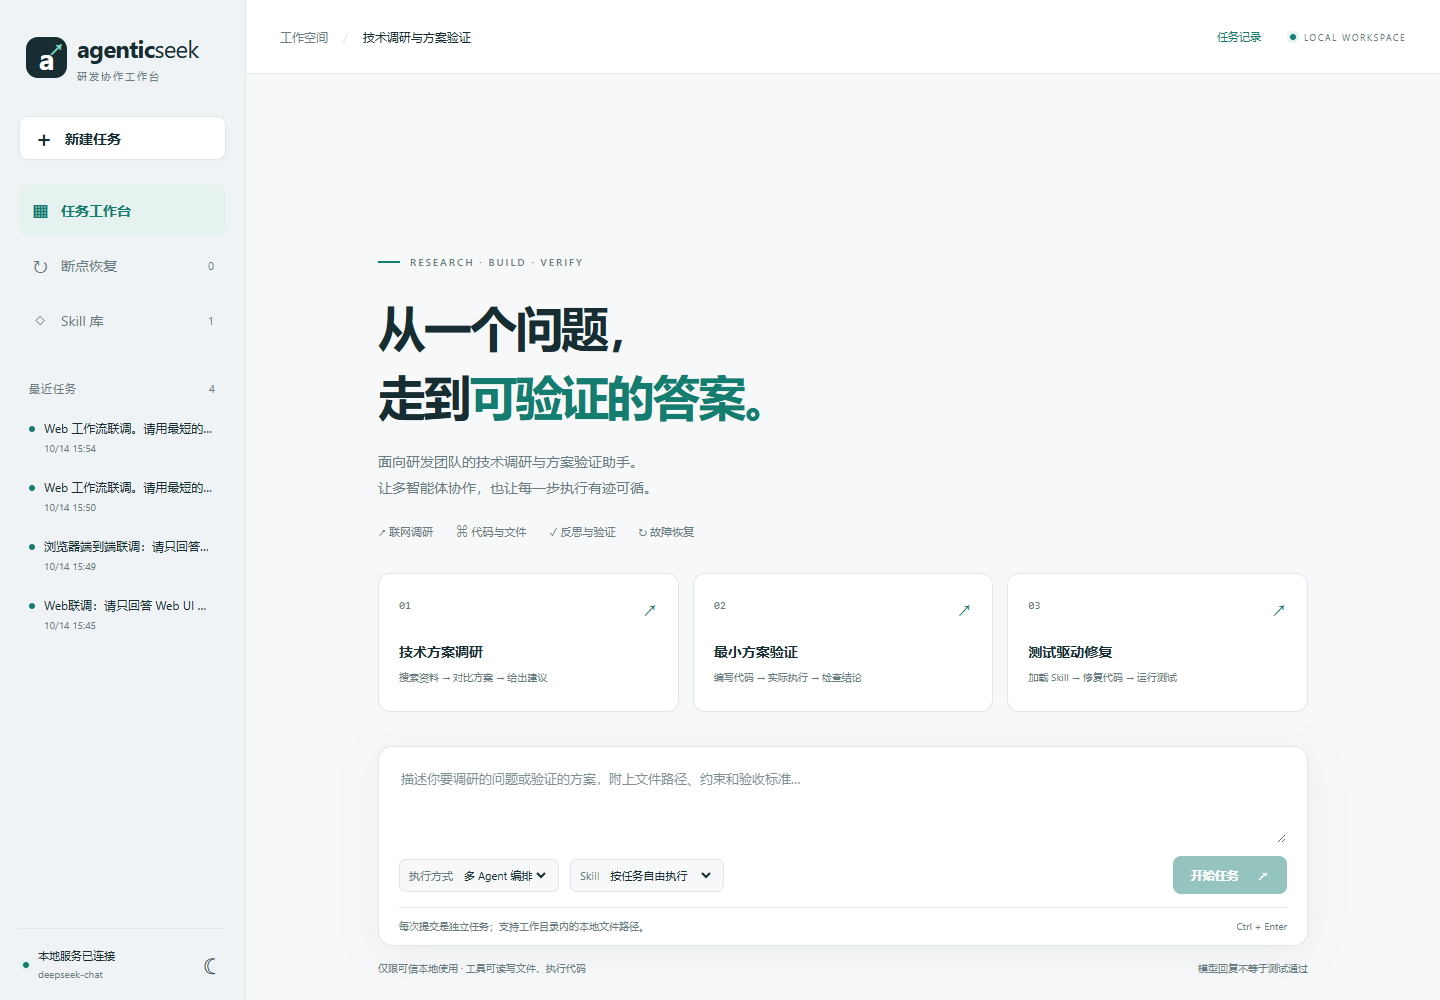
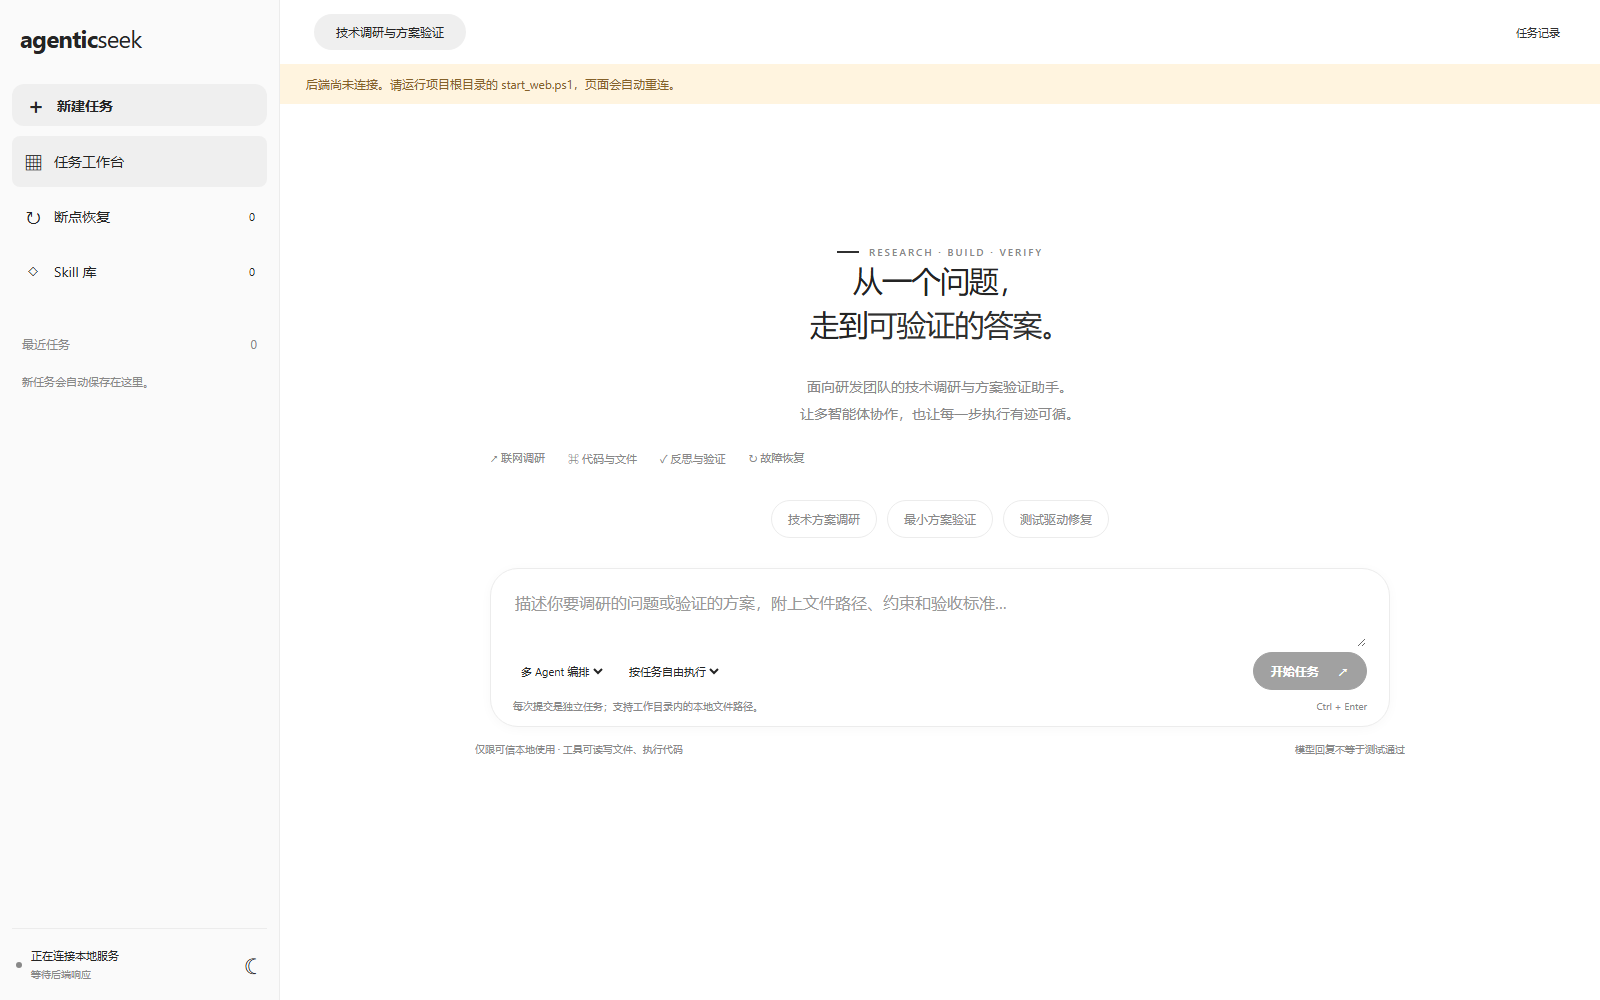
Restyle workspace with a minimal conversation interface

diff --git a/frontend/agentic-seek-front/src/App.css b/frontend/agentic-seek-front/src/App.css
@@ -139,3 +139,9 @@ summary { cursor: pointer; color: var(--subtle); font-size: 11px; line-height: 1
 @media (max-width: 760px) { .app-shell { flex-direction: column; }.sidebar { width: 100%; flex: 0 0 auto; padding: 12px 16px; flex-direction: row; align-items: center; gap: 13px; border-right: 0; border-bottom: 1px solid var(--line); }.brand { margin: 0; font-size: 19px; }.brand-icon { width: 32px; height: 32px; font-size: 23px; }.brand small, .new-task kbd, .history-list, .history-label, .sidebar-footer, .nav-item > span, .nav-item small { display: none; }.new-task { width: auto; margin: 0 0 0 auto; padding: 7px 10px; font-size: 11px; }.new-task > span { font-size: 17px; }.sidebar nav { display: flex; gap: 4px; }.nav-item { padding: 8px; font-size: 10px; margin: 0; white-space: nowrap; }.main-shell { min-height: 0; }.topbar { min-height: 53px; padding: 0 20px; font-size: 10px; }.local-badge { font-size: 8px; letter-spacing: .5px; }.workspace-main { padding: 0 20px; }.welcome { padding-top: 37px; }.welcome h1 { font-size: 35px; }.hero-description { font-size: 12px; }.capability-strip { gap: 14px; font-size: 10px; }.example-card { padding: 14px; }.example-card h2 { font-size: 12px; }.example-card p { font-size: 9px; }.composer { padding: 15px; }.composer-controls, .with-task .composer-controls { flex-wrap: wrap; }.composer-controls > button { margin-left: auto; }.composer-selects { gap: 6px; }.composer-selects label { font-size: 10px; padding: 6px; }.composer-selects select { max-width: 145px; }.composer-note > span:last-child { display: none; }.workspace-footer { font-size: 9px; }.library-page { padding: 30px 20px; }.banner { padding: 9px 20px; font-size: 10px; gap: 10px; } }
 @media (max-width: 480px) { .sidebar { flex-wrap: wrap; gap: 8px; }.sidebar nav { width: 100%; }.nav-item { flex: 1; justify-content: center; }.topbar .local-badge { display: none; }.welcome h1 { font-size: 31px; }.examples { grid-template-columns: 1fr; gap: 8px; }.example-card { min-height: 0; position: relative; padding: 14px 14px 14px 45px; }.example-number { position: absolute; left: 14px; top: 17px; }.example-number > span { display: none; }.example-card h2 { margin-bottom: 5px; }.composer-selects label { flex: 1; }.composer-selects { width: 100%; }.running-card { flex-wrap: wrap; }.running-card button { margin-left: 30px; }.workspace-footer { flex-direction: column; gap: 6px; } }
 @media (prefers-reduced-motion: reduce) { * { animation-duration: .01ms !important; transition: none !important; } }
+
+/* Reference-inspired conversation workspace */
+:root,[data-theme="light"]{--page:#fff;--surface:#fff;--sidebar:#fafafa;--ink:#242424;--subtle:#888;--line:#ececec;--accent:#303030;--accent-soft:#efefef;--shadow:0 2px 12px #00000008}
+.sidebar{width:280px;flex-basis:280px;padding:22px 12px 0}.brand{margin:0 8px 30px;font-size:24px}.brand-icon,.brand small{display:none}.new-task{border:0;box-shadow:none;background:var(--accent-soft);border-radius:12px;margin-bottom:10px}.nav-item{color:var(--ink)}.nav-item.selected{color:var(--ink);font-weight:500}.history-label{font-size:12px;letter-spacing:0;margin-top:36px}.history-text{font-size:14px}.topbar{border:0;min-height:64px}.local-badge{display:none}.topbar b{background:var(--accent-soft);padding:10px 22px;border-radius:25px}.topbar .breadcrumb,.topbar .muted{display:none}.workspace-main{padding:0 36px}.welcome{max-width:900px;margin:auto auto 0;text-align:center;padding:30px 0}.welcome h1{font-size:30px;font-weight:500;letter-spacing:-1px;margin:0 0 28px}.examples{display:flex;justify-content:center;flex-wrap:wrap;gap:10px}.example-card{min-height:0;padding:10px 16px;border-radius:24px;text-align:center;background:transparent}.example-number,.example-card p{display:none}.example-card h2{font-size:12px;font-weight:400;margin:0;color:var(--subtle)}.composer{max-width:900px;border-radius:28px;padding:18px 22px 12px}.composer textarea{min-height:42px;font-size:16px}.composer-controls{margin-top:0}.composer-selects label{border:0;background:transparent;padding:4px}.composer-selects label>span{display:none}.composer .primary-button{border-radius:25px}.composer-note{border:0;margin-top:8px;padding-top:0}.workspace-layout:not(.with-task) .workspace-footer{margin-bottom:auto;padding-bottom:14vh}.user-query{border:0;background:var(--accent-soft);border-radius:24px}
+@media(max-width:760px){.sidebar{width:190px;flex-basis:190px}.workspace-main{padding:0 16px}.composer-selects select{max-width:120px}.welcome h1{font-size:26px}}
+@media(max-width:540px){.sidebar{width:64px;flex-basis:64px;padding:20px 6px}.brand{font-size:0;margin:0 0 22px}.brand:after{content:'a↗';font-size:22px}.new-task{font-size:0;justify-content:center}.new-task>span{font-size:24px}.sidebar nav,.history-label,.history-list,.sidebar-footer>span{display:none}.sidebar-footer{margin-top:auto}.composer{padding:14px}.composer-selects{flex-direction:column;gap:2px}.composer-note>span:first-child,.workspace-footer{display:none}.example-card{padding:8px}.workspace-main{padding:0 12px}}

diff --git a/frontend/agentic-seek-front/src/App.js b/frontend/agentic-seek-front/src/App.js
@@ -160,10 +160,7 @@ export default function App() {
       {view === 'workspace' && <div className={'workspace-layout ' + (task ? 'with-task' : '')}>
         <main className="workspace-main">
           {!selectedId ? <section className="welcome">
-            <div className="eyebrow"><span className="tiny-line" /> RESEARCH · BUILD · VERIFY</div>
-            <h1>从一个问题，<br />走到<span>可验证的答案。</span></h1>
-            <p className="hero-description">面向研发团队的技术调研与方案验证助手。<br />让多智能体协作，也让每一步执行有迹可循。</p>
-            <div className="capability-strip"><span>↗ 联网调研</span><span>⌘ 代码与文件</span><span>✓ 反思与验证</span><span>↻ 故障恢复</span></div>
+            <h1>随时可以开始。</h1>
             <div className="examples">{examples.map(ex => <button className="example-card" key={ex.number} onClick={() => selectExample(ex)}><span className="example-number">{ex.number}<span>↗</span></span><h2>{ex.title}</h2><p>{ex.desc}</p></button>)}</div>
           </section> : task ? <section className="task-content">
             <div className="task-title"><div><span className="eyebrow">TASK / {task.id.slice(0, 8)}</span><h1>任务详情</h1></div><Status state={task.status} /></div>
@@ -177,7 +174,7 @@ export default function App() {
 
           <form className="composer" onSubmit={submit}>
             <label className="sr-only" htmlFor="task-input">任务内容</label>
-            <textarea id="task-input" ref={inputRef} value={query} maxLength={32000} onChange={e => setQuery(e.target.value)} placeholder="描述你要调研的问题或验证的方案，附上文件路径、约束和验收标准…" onKeyDown={e => { if ((e.ctrlKey || e.metaKey) && e.key === 'Enter') submit(e); }} />
+            <textarea id="task-input" ref={inputRef} value={query} maxLength={32000} onChange={e => setQuery(e.target.value)} placeholder="向 agenticSeek 提问，或描述一项任务…" onKeyDown={e => { if ((e.ctrlKey || e.metaKey) && e.key === 'Enter') submit(e); }} />
             <div className="composer-controls">
               <div className="composer-selects"><label><span>执行方式</span><select aria-label="执行方式" value={skill ? 'planner' : mode} disabled={Boolean(skill)} onChange={e => setMode(e.target.value)}>{Object.entries(modes).map(([value, label]) => <option key={value} value={value}>{label}</option>)}</select></label>
                 <label><span>Skill</span><select aria-label="选择 Skill" value={skill} onChange={e => setSkill(e.target.value)}><option value="">按任务自由执行</option>{skills.map(s => <option key={s.name} value={s.name}>{s.name === 'test-driven-code-repair' ? '测试驱动代码修复' : s.name}</option>)}</select></label>

diff --git a/README_CHS.md b/README_CHS.md
@@ -4,6 +4,8 @@
 
 ![TAVS 工作台](./docs/screenshots/tavs-workspace.png)
 
+工作台采用参考 ChatGPT 的简洁布局：浅色侧栏、居中欢迎区和圆角任务输入框，保留任务模式、Skill 与断点恢复入口。截图为后端未连接时的真实前端页面。
+
 ## 系统能力
 
 - 通过 SearXNG 和浏览器 Agent 进行联网调研；

diff --git a/README.md b/README.md
@@ -4,6 +4,8 @@
 
 ![TAVS Web workspace](./docs/screenshots/tavs-workspace.png)
 
+The workspace now features a quiet, ChatGPT-inspired layout with a light sidebar, centered welcome area, and rounded task composer. The screenshot shows the frontend with the backend disconnected.
+
 ## What it does
 
 TAVS combines:
